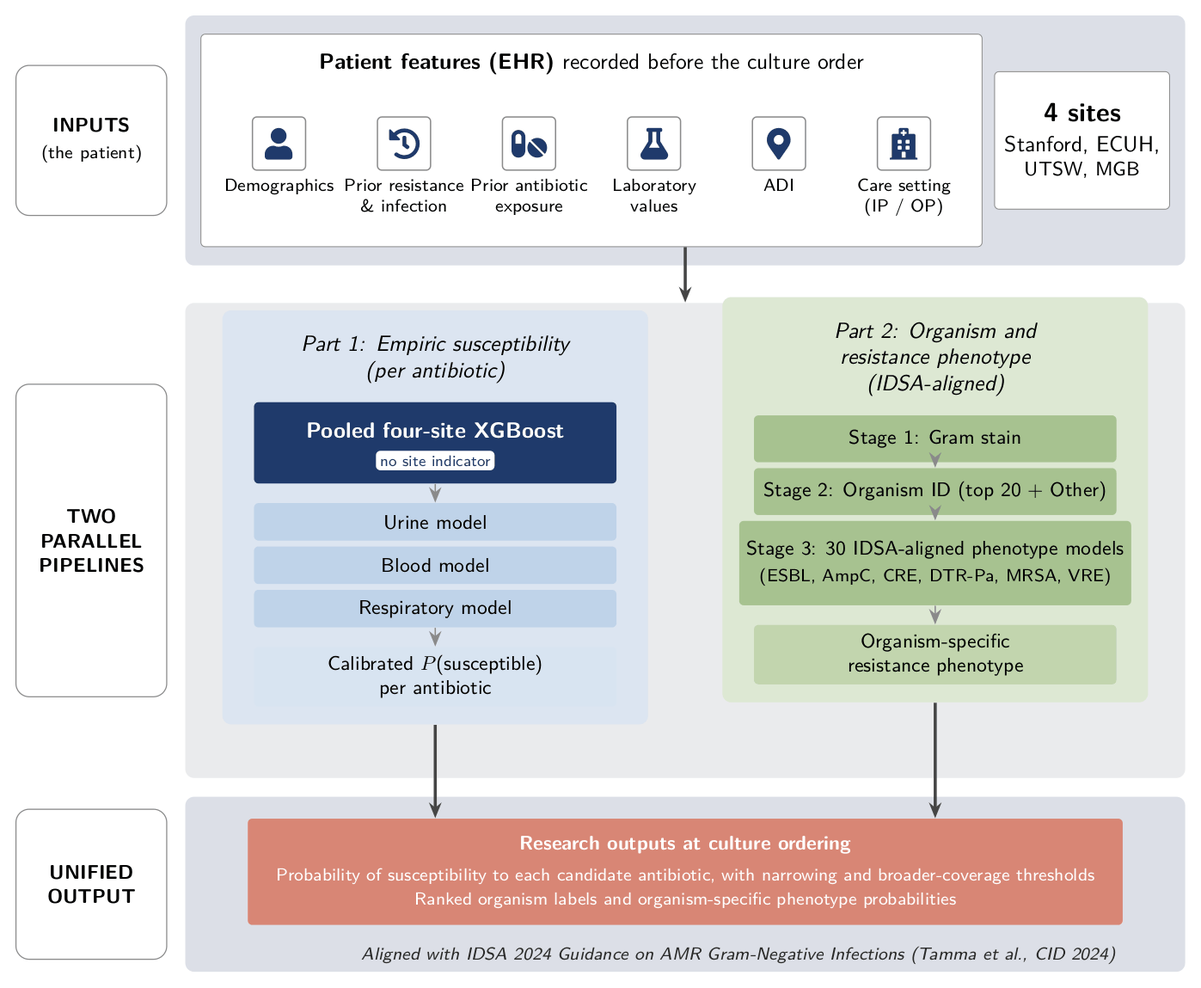
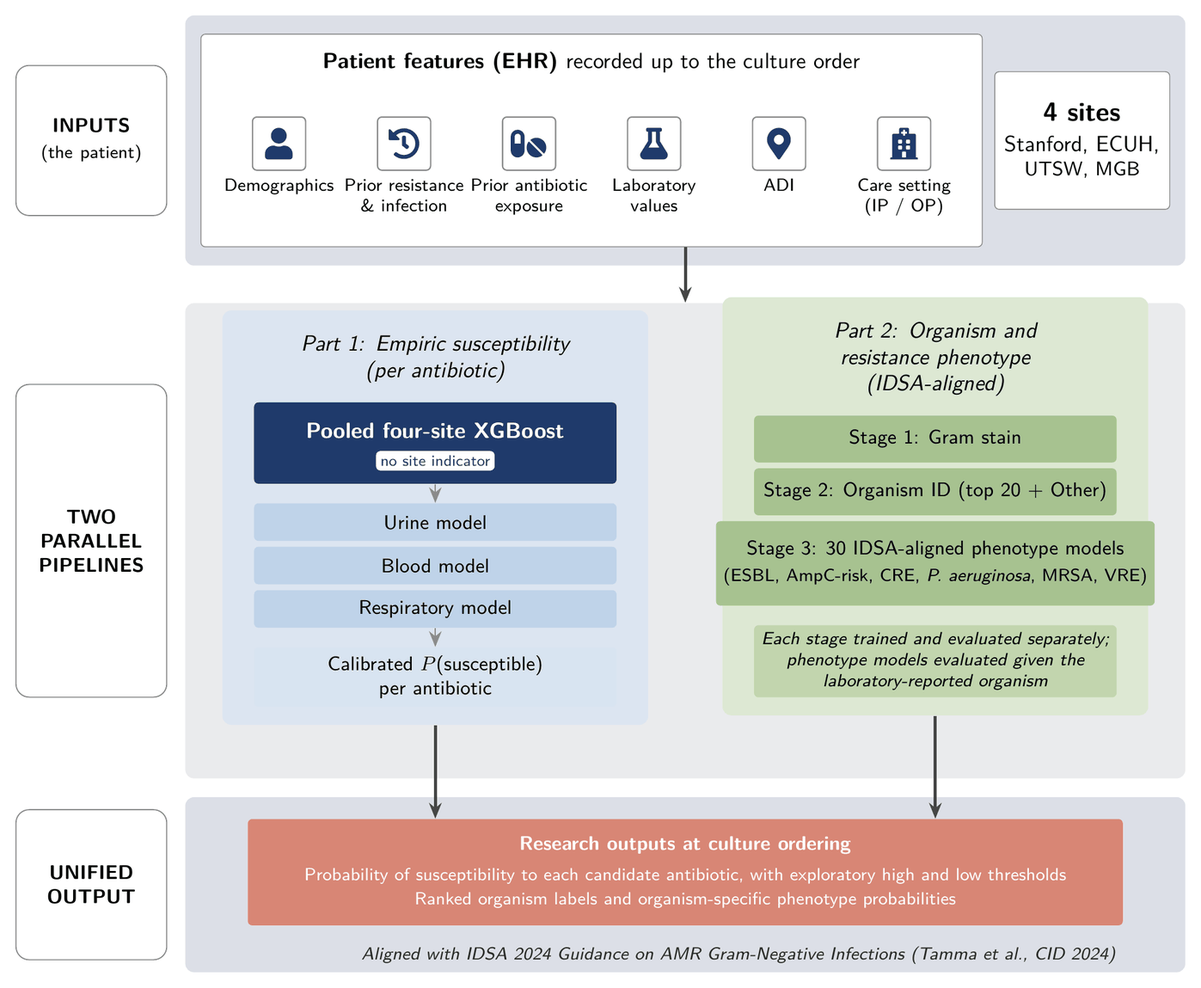
Website and README: match the submitted manuscript; remove arXiv paper links
- Remove the Paper/arXiv buttons and links (nav, hero, footer, README badge);
  citation is now an unpublished manuscript, not an arXiv preprint.
- Title in title case; affiliations and author numbering as submitted.
- New Fig. 2 (stages trained and evaluated separately, AmpC-risk,
  P. aeruginosa agent-specific, high and low thresholds) and Fig. 4
  (susceptible identified / resistant flagged).
- Wording synced with the submitted text: five short-form blocks, site-aware
  comparison at MGB only, same-day exclusion exceptions, all tested organisms,
  app's E. coli-based local adjustment differs from the evaluated correction.

diff --git a/docs/index.html b/docs/index.html
@@ -4,7 +4,7 @@
 <meta charset="utf-8">
 <meta name="viewport" content="width=device-width, initial-scale=1">
 <title>ARMD-Predict</title>
-<meta name="description" content="ARMD-Predict estimates, at culture ordering, the probability that an organism recovered from the culture will be susceptible to each candidate antibiotic: a patient-specific antibiogram trained on four U.S. health systems. Research prototype, not for clinical decision-making.">
+<meta name="description" content="ARMD-Predict estimates, at culture ordering, the probability that all tested organisms recovered from the culture will be susceptible to each candidate antibiotic: a patient-specific antibiogram trained on four U.S. health systems. Research prototype, not for clinical decision-making.">
 <meta name="color-scheme" content="light">
 <meta name="theme-color" content="#FFFFFF">
 <link rel="canonical" href="https://healthrex.github.io/ARMD-Predict/">
@@ -414,8 +414,6 @@ footer nav a:hover { color: var(--teal-strong); }
       <li><a href="#citation">Cite</a></li>
     </ul>
     <div class="nav-cta">
-      <!-- TODO: replace XXXX.XXXXX with the arXiv identifier once the preprint is posted -->
-      <a class="btn hide-sm" href="https://arxiv.org/abs/XXXX.XXXXX">Paper</a>
       <a class="btn" href="https://github.com/HealthRex/ARMD-Predict">GitHub</a>
     </div>
   </div>
@@ -424,8 +422,8 @@ footer nav a:hover { color: var(--teal-strong); }
 <header class="hero" id="top">
   <div class="wrap hero-grid">
     <div class="hero-copy">
-      <p class="eyebrow">Preprint 2026 · Research prototype</p>
-      <h1><span class="name">ARMD-Predict</span>: <span class="nw">multi-site</span> machine learning to <em>predict antibiotic resistance before culture results</em></h1>
+      <p class="eyebrow">Research prototype · 2026</p>
+      <h1><span class="name">ARMD-Predict</span>: <span class="nw">Multi-Site</span> Machine Learning to <em>Predict Antibiotic Resistance before Culture Results</em></h1>
 
       <p class="authors">
         Fateme Nateghi Haredasht<sup>1,*,†</sup>, Nicholas P. Marshall<sup>1,*</sup>, Wenyuan Chen<sup>1</sup>, Lauren N. Cooper<sup>2</sup>, Ziming Wei<sup>3</sup>, Harrison Konsker<sup>1</sup>, Jacob S. Chen<sup>1</sup>, Michael Klompas<sup>3,4</sup>, Cara McKenna<sup>3,4</sup>, Richard J. Medford<sup>2,5</sup>, Sanjat Kanjilal<sup>3</sup>, Austin J. Schoeffler<sup>1</sup>, Stephen P. Ma<sup>1</sup>, Niaz Banaei<sup>1</sup>, Steven M. Asch<sup>1</sup>, Amy Chang<sup>1</sup>, Stanley C. Deresinski<sup>1</sup>, Mary K. Goldstein<sup>1</sup>, Robert Tibshirani<sup>1</sup>, Jonathan H. Chen<sup>1</sup>
@@ -436,11 +434,7 @@ footer nav a:hover { color: var(--teal-strong); }
       <p class="notes"><sup>*</sup>Contributed equally. <sup>†</sup>Corresponding author.</p>
 
       <div class="hero-actions">
-        <a class="btn btn-primary" href="https://arxiv.org/abs/XXXX.XXXXX">
-          <svg viewBox="0 0 24 24" fill="none" stroke="currentColor" stroke-width="2" stroke-linecap="round" stroke-linejoin="round" aria-hidden="true"><path d="M14 3H7a2 2 0 0 0-2 2v14a2 2 0 0 0 2 2h10a2 2 0 0 0 2-2V8z"/><path d="M14 3v5h5M9 13h6M9 17h6"/></svg>
-          Paper <span class="tag">arXiv</span>
-        </a>
-        <a class="btn" href="https://github.com/HealthRex/ARMD-Predict">
+        <a class="btn btn-primary" href="https://github.com/HealthRex/ARMD-Predict">
           <svg viewBox="0 0 24 24" fill="none" stroke="currentColor" stroke-width="2" stroke-linecap="round" stroke-linejoin="round" aria-hidden="true"><path d="m16 18 6-6-6-6M8 6l-6 6 6 6"/></svg>
           Code
         </a>
@@ -540,8 +534,8 @@ footer nav a:hover { color: var(--teal-strong); }
       <h2>A patient-specific antibiogram, <em>at the moment a culture is ordered</em></h2>
     </div>
     <div class="prose">
-      <p>Clinicians often choose empiric antibiotics 24 to 72 hours before culture and susceptibility results are available. During that interval they rely on the hospital antibiogram: the share of recovered isolates that were susceptible to each antibiotic, reported once for all patients.</p>
-      <p><strong>ARMD-Predict estimates the same quantity for one patient.</strong> From information recorded before the order, it estimates the probability that an organism recovered from the culture will be susceptible to each candidate antibiotic. The models were trained on 7.4 million culture–antibiotic results from 415,952 culture orders in 241,227 patients at Stanford Health Care, East Carolina University Health (ECUH), UT Southwestern Medical Center (UTSW) and Mass General Brigham (MGB). A secondary hierarchical model predicts the organism and resistance phenotypes aligned with the 2024 IDSA guidance.</p>
+      <p>Organism identification and susceptibility testing can take several days, so clinicians often choose empiric antibiotics before results are available. During that interval they rely on the hospital antibiogram: the share of recovered isolates that were susceptible to each antibiotic, reported once for all patients.</p>
+      <p><strong>ARMD-Predict estimates the same quantity for one patient.</strong> From information recorded up to the culture order, it estimates the probability that all tested organisms recovered from the culture will be susceptible to each candidate antibiotic. The models were trained on 7.4 million culture–antibiotic results from 415,952 culture orders in 241,227 patients at Stanford Health Care, East Carolina University Health (ECUH), UT Southwestern Medical Center (UTSW) and Mass General Brigham (MGB). Separately trained and evaluated models predict the likely organism and organism-specific resistance phenotypes, including proxies for categories in the 2024 IDSA guidance.</p>
     </div>
 
     <div class="compare">
@@ -571,7 +565,7 @@ footer nav a:hover { color: var(--teal-strong); }
     <div class="section-head">
       <p class="eyebrow">How it works</p>
       <h2>Two components built on one set of <em><span class="nw">pre-order</span> features</em></h2>
-      <p>Both components use only information recorded before the culture order: demographics, care setting, prior resistance and infection, prior antibiotic exposure, prior procedures, comorbidities, laboratory values and the Area Deprivation Index.</p>
+      <p>Both components use information recorded up to the culture order: demographics, care setting, prior resistance and infection, prior antibiotic exposure, prior procedures, comorbidities, laboratory values and the Area Deprivation Index.</p>
     </div>
 
     <div class="grid-2">
@@ -581,27 +575,27 @@ footer nav a:hover { color: var(--teal-strong); }
         <p>One XGBoost model per antibiotic, specimen and care setting returns the probability that the organisms recovered from the order are susceptible to that antibiotic.</p>
         <ul>
           <li>23 pooled four-site models: 7 inpatient urine, 7 outpatient urine, 7 inpatient blood and 2 respiratory.</li>
-          <li>Released models omit site identity; a site-agnostic pooled model performed nearly identically to a site-aware one.</li>
-          <li>The public web app uses a short form restricted to six feature blocks a clinician can report at ordering.</li>
+          <li>Released models omit site identity. At MGB, the only hospital in this comparison, a site-agnostic pooled model performed nearly identically to a site-aware one.</li>
+          <li>The public web app uses a short form restricted to five feature blocks a clinician can report at ordering: demographics, care setting, prior resistance, prior infection and prior antibiotic exposure.</li>
         </ul>
       </article>
       <article class="card comp comp-p">
         <span class="num">COMPONENT 2</span>
         <h3>Organism and resistance phenotype</h3>
-        <p>A three-stage hierarchy decomposes the pre-culture question into Gram class, organism identity and organism-specific resistance.</p>
+        <p>Three stages address Gram class, organism identity and organism-specific resistance. Each stage was trained and evaluated separately, not as an end-to-end cascade.</p>
         <ul>
           <li>Gram stain: pooled held-out AUROC 0.72.</li>
           <li>Organism identification: the 20 most frequent organisms per specimen and setting, plus Other.</li>
-          <li>30 phenotype models aligned with the 2024 IDSA guidance (ESBL, AmpC, CRE and difficult-to-treat <i>P. aeruginosa</i> proxies), with MRSA and VRE as Gram-positive complements. AUROC ranged from 0.519 to 0.834, evaluated given the observed organism.</li>
+          <li>30 phenotype models aligned with the 2024 IDSA guidance: proxies for ESBL production and CRE, measured resistance in organisms at moderate risk of AmpC production, and non-susceptibility of <i>P. aeruginosa</i> to individual agents, with MRSA and VRE as Gram-positive complements. AUROC ranged from 0.519 to 0.834, evaluated given the laboratory-reported organism. Phenotype models are not shown in the public web app.</li>
         </ul>
       </article>
     </div>
 
     <div class="sub">
       <figure class="fig fig-narrow">
-        <a href="assets/framework.png" title="Open the full-size figure"><img src="assets/framework.png" width="1397" height="1149" loading="lazy" alt="ARMD-Predict framework diagram. Inputs: patient features recorded before the culture order (demographics, prior resistance and infection, prior antibiotic exposure, laboratory values, Area Deprivation Index and care setting) from four sites: Stanford, ECUH, UTSW and MGB. Two parallel pipelines. Part 1, empiric susceptibility per antibiotic: a pooled four-site XGBoost with no site indicator, with urine, blood and respiratory models, giving a calibrated probability of susceptibility per antibiotic. Part 2, organism and resistance phenotype, IDSA-aligned: stage 1 Gram stain, stage 2 organism identification (top 20 plus Other), stage 3 thirty IDSA-aligned phenotype models (ESBL, AmpC, CRE, DTR-Pa, MRSA, VRE), giving organism-specific resistance phenotypes. Unified output: research outputs at culture ordering."></a>
+        <a href="assets/framework.png" title="Open the full-size figure"><img src="assets/framework.png" width="1397" height="1149" loading="lazy" alt="ARMD-Predict framework diagram. Inputs: patient features recorded up to the culture order (demographics, prior resistance and infection, prior antibiotic exposure, laboratory values, Area Deprivation Index and care setting) from four sites: Stanford, ECUH, UTSW and MGB. Two parallel pipelines. Part 1, empiric susceptibility per antibiotic: a pooled four-site XGBoost with no site indicator, with urine, blood and respiratory models, giving a calibrated probability of susceptibility per antibiotic. Part 2, organism and resistance phenotype, IDSA-aligned: stage 1 Gram stain, stage 2 organism identification (top 20 plus Other), stage 3 thirty IDSA-aligned phenotype models (ESBL, AmpC-risk, CRE, P. aeruginosa, MRSA, VRE); each stage was trained and evaluated separately, and phenotype models were evaluated given the laboratory-reported organism. Unified output: research outputs at culture ordering, the probability of susceptibility to each candidate antibiotic with exploratory high and low thresholds, and ranked organism labels with organism-specific phenotype probabilities."></a>
       </figure>
-      <figcaption><strong>The ARMD-Predict framework.</strong> A shared set of EHR features recorded before the culture order feeds two research pipelines. Phenotypic proxies align, where applicable, with the 2024 IDSA guidance on antimicrobial-resistant Gram-negative infections.</figcaption>
+      <figcaption><strong>The ARMD-Predict framework.</strong> A shared set of EHR features recorded up to the culture order feeds two research pipelines, each trained and evaluated separately. Phenotypic proxies align, where applicable, with the 2024 IDSA guidance on antimicrobial-resistant Gram-negative infections.</figcaption>
     </div>
 
     <div class="sub">
@@ -612,8 +606,8 @@ footer nav a:hover { color: var(--teal-strong); }
           <p>Monotonic constraints apply to prior resistance, prior infection and overall prior antibiotic exposure. A patient with an earlier resistant culture is never scored as less likely to be resistant than an otherwise identical patient without one.</p>
         </div>
         <div class="principle">
-          <h4>Only what was known before the order</h4>
-          <p>History records dated the same day as the culture were excluded at every site, because whole-day dates cannot show that the event came before the order.</p>
+          <h4>No same-day history</h4>
+          <p>History records dated the same day as the culture were excluded at every site, because whole-day dates cannot show that the event came before the order. Two exceptions: nursing-home contact, whose records mostly carry the culture day, and laboratory summaries, which cover the 14 days up to and including the day of the order.</p>
         </div>
         <div class="principle">
           <h4>No patient in two partitions</h4>
@@ -791,11 +785,11 @@ footer nav a:hover { color: var(--teal-strong); }
     <!-- operating points -->
     <div class="sub">
       <h3>Exploratory operating points</h3>
-      <p class="lede">Two thresholds link a probability to a prescribing question. A high threshold identifies orders for narrowing when at least 95% of them are susceptible; a low threshold flags resistant orders for broader coverage while flagging no more than 20% of susceptible ones. For ceftriaxone in inpatient urine cultures, 54.9% of susceptible orders were identified for narrowing and 60.1% of resistant orders were flagged for broader coverage.</p>
+      <p class="lede">Two exploratory thresholds link a probability to a prescribing question. A high threshold identifies susceptible cultures, requiring that at least 95% of the cultures above it are susceptible (positive predictive value of at least 95%); a low threshold flags resistant cultures while flagging no more than 20% of susceptible ones. For ceftriaxone in inpatient urine cultures, 54.9% of susceptible orders were identified at the high threshold and 60.1% of resistant orders were flagged at the low threshold.</p>
       <figure class="fig fig-narrow">
-        <a href="assets/operating-points.png" title="Open the full-size figure"><img src="assets/operating-points.png" width="1260" height="1066" loading="lazy" alt="Bar charts of exploratory operating points for urine inpatient, urine outpatient, blood inpatient and respiratory inpatient models. Orange bars give the percentage of susceptible test orders identified for narrowing; green bars give the percentage of resistant test orders flagged for broader coverage. For example, urine inpatient ceftriaxone: 55 and 60; blood inpatient ceftriaxone: 11 and 46."></a>
+        <a href="assets/operating-points.png" title="Open the full-size figure"><img src="assets/operating-points.png" width="1260" height="1022" loading="lazy" alt="Bar charts of exploratory operating points for urine inpatient, urine outpatient, blood inpatient and respiratory inpatient models. Orange bars give the percentage of susceptible test cultures identified at the high threshold (positive predictive value of at least 95%); green bars give the percentage of resistant test cultures flagged at the low threshold (no more than 20% of susceptible cultures flagged). For example, urine inpatient ceftriaxone: 55 and 60; blood inpatient ceftriaxone: 11 and 46."></a>
       </figure>
-      <figcaption><strong>Narrowing and broader-coverage yields.</strong> Both thresholds were feasible for 17 of 23 models. Thresholds and yields were derived and evaluated on the same test orders, so they are candidate operating points for validation, not tested clinical rules.</figcaption>
+      <figcaption><strong>Exploratory operating points for identifying susceptible and flagging resistant cultures.</strong> Both thresholds were feasible for 17 of 23 models. The two thresholds were selected independently and do not form a single policy; in 9 of the 17 models the low threshold lay above the high threshold. Thresholds and yields were derived and evaluated on the same test orders, so they are candidate operating points for validation, not tested clinical rules.</figcaption>
     </div>
 
     <!-- sites -->
@@ -842,7 +836,7 @@ footer nav a:hover { color: var(--teal-strong); }
       <div class="facts">
         <div class="fact"><b>Controlled prevalence sweep.</b> At a 40% local resistance rate, median expected calibration error fell from 0.20 to 0.06 after re-anchoring, without changing discrimination.</div>
         <div class="fact"><b>Leave-one-site-out.</b> Among site–model cells whose prevalence differed from training by at least 3 percentage points, re-anchoring reduced calibration error in 4 of 5 (mean, 0.061 to 0.037).</div>
-        <div class="fact"><b>Caveat.</b> The retrospective analysis used each held-out site's observed prevalence, which is stronger information than a hospital would usually have in advance. The web app offers this adjustment as an experimental feature.</div>
+        <div class="fact"><b>Caveat.</b> The retrospective analysis used each held-out site's observed prevalence, which is stronger information than a hospital would usually have in advance. The web app's experimental local adjustment is a different, simpler method: it shifts each estimate by the difference between the local and training <i>E. coli</i> resistance rates, weighted by the share of that culture group's organisms that are <i>E. coli</i>. It has not itself been evaluated.</div>
       </div>
     </div>
   </div>
@@ -857,14 +851,12 @@ footer nav a:hover { color: var(--teal-strong); }
     </div>
     <div class="cite">
       <button class="copy" type="button" data-copy="bibtex">Copy BibTeX</button>
-<pre id="bibtex">@article{nateghiharedasht2026armdpredict,
-  title         = {{ARMD-Predict}: multi-site machine learning to predict antibiotic resistance before culture results},
-  author        = {Nateghi Haredasht, Fateme and Marshall, Nicholas P. and Chen, Wenyuan and Cooper, Lauren N. and Wei, Ziming and Konsker, Harrison and Chen, Jacob S. and Klompas, Michael and McKenna, Cara and Medford, Richard J. and Kanjilal, Sanjat and Schoeffler, Austin J. and Ma, Stephen P. and Banaei, Niaz and Asch, Steven M. and Chang, Amy and Deresinski, Stanley C. and Goldstein, Mary K. and Tibshirani, Robert and Chen, Jonathan H.},
-  journal       = {arXiv preprint arXiv:XXXX.XXXXX},
-  year          = {2026},
-  eprint        = {XXXX.XXXXX},
-  archivePrefix = {arXiv},
-  url           = {https://arxiv.org/abs/XXXX.XXXXX}
+<pre id="bibtex">@unpublished{nateghiharedasht2026armdpredict,
+  title  = {{ARMD-Predict}: Multi-Site Machine Learning to Predict Antibiotic Resistance before Culture Results},
+  author = {Nateghi Haredasht, Fateme and Marshall, Nicholas P. and Chen, Wenyuan and Cooper, Lauren N. and Wei, Ziming and Konsker, Harrison and Chen, Jacob S. and Klompas, Michael and McKenna, Cara and Medford, Richard J. and Kanjilal, Sanjat and Schoeffler, Austin J. and Ma, Stephen P. and Banaei, Niaz and Asch, Steven M. and Chang, Amy and Deresinski, Stanley C. and Goldstein, Mary K. and Tibshirani, Robert and Chen, Jonathan H.},
+  year   = {2026},
+  note   = {Manuscript submitted for publication},
+  url    = {https://healthrex.github.io/ARMD-Predict/}
 }</pre>
     </div>
     <p class="cite-note">Fateme Nateghi Haredasht and Nicholas P. Marshall contributed equally. If you use the datasets, please also cite the ARMD releases listed under <a href="#data">Data</a>.</p>
@@ -924,7 +916,8 @@ footer nav a:hover { color: var(--teal-strong); }
       <summary>Full affiliations</summary>
       <ol>
         <li>Division of Computational Medicine, Stanford University, Stanford, CA, USA</li>
-        <li>Division of Pediatric Infectious Diseases, Department of Pediatrics, Stanford University School of Medicine, Palo Alto, CA, USA</li>
+        <li>Division of Infectious Diseases, Department of Pediatrics, Stanford University School of Medicine, Palo Alto, CA, USA</li>
+        <li>Division of Clinical Informatics, Department of Pediatrics, Stanford University School of Medicine, Palo Alto, CA, USA</li>
         <li>Clinical Informatics Center, University of Texas Southwestern Medical Center, Dallas, TX, USA</li>
         <li>Department of Population Medicine, Harvard Medical School and Harvard Pilgrim Health Care Institute, Boston, MA, USA</li>
         <li>Division of Infectious Diseases, Department of Medicine, Brigham and Women's Hospital, Boston, MA, USA</li>
@@ -938,7 +931,7 @@ footer nav a:hover { color: var(--teal-strong); }
         <li>Department of Biomedical Data Science and Department of Statistics, Stanford University, Stanford, CA, USA</li>
         <li>Clinical Excellence Research Center, Stanford University School of Medicine, Stanford, CA, USA</li>
       </ol>
-      <p style="margin-top:10px">Author numbering in the paper: Nateghi Haredasht 1; Marshall 2; W. Chen 1; Cooper 3; Wei 4; Konsker 1; J. S. Chen 1; Klompas 4, 5; McKenna 4, 5; Medford 3, 6; Kanjilal 4; Schoeffler 7; Ma 8; Banaei 9, 10; Asch 11; Chang 9; Deresinski 9; Goldstein 12; Tibshirani 13; J. H. Chen 1, 8, 14.</p>
+      <p style="margin-top:10px">Author numbering in the paper: Nateghi Haredasht 1; Marshall 2, 3; W. Chen 1; Cooper 4; Wei 5; Konsker 1; J. S. Chen 1; Klompas 5, 6; McKenna 5, 6; Medford 4, 7; Kanjilal 5; Schoeffler 8; Ma 9; Banaei 10, 11; Asch 12; Chang 10; Deresinski 10; Goldstein 13; Tibshirani 14; J. H. Chen 1, 9, 15.</p>
     </details>
   </div>
 </section>
@@ -948,13 +941,12 @@ footer nav a:hover { color: var(--teal-strong); }
   <div class="wrap">
     <a class="brand" href="#top"><img src="assets/logo.svg" alt="" width="40" height="25"><span>ARMD-Predict</span></a>
     <nav aria-label="Footer">
-      <a href="https://arxiv.org/abs/XXXX.XXXXX">Paper</a>
       <a href="https://github.com/HealthRex/ARMD-Predict">Code</a>
       <a href="https://armd-predict.stanford.edu">Web app</a>
       <a href="#data">Data</a>
       <a href="#citation">Cite</a>
     </nav>
-    <p style="margin:0;flex-basis:100%">Research prototype. Not for clinical decision-making. Figures and numbers on this page are from the ARMD-Predict paper (2026).</p>
+    <p style="margin:0;flex-basis:100%">Research prototype. Not for clinical decision-making. Figures and numbers on this page are from the ARMD-Predict manuscript (2026).</p>
   </div>
 </footer>
 

diff --git a/README.md b/README.md
@@ -2,12 +2,10 @@
   <img src="assets/armd-predict-logo.svg" alt="ARMD-Predict logo: a teal culture plate with three antibiotic discs, circled by a purple orbit" width="200">
 </p>
 
-<h1 align="center">ARMD-Predict: multi-site machine learning to predict antibiotic resistance before culture results</h1>
+<h1 align="center">ARMD-Predict: Multi-Site Machine Learning to Predict Antibiotic Resistance before Culture Results</h1>
 
 <p align="center">
   <a href="https://healthrex.github.io/ARMD-Predict/"><img src="https://img.shields.io/badge/Website-000000?style=for-the-badge&logo=googlechrome&logoColor=white&color=082A5E" alt="Website"></a>
-  <!-- TODO: replace XXXX.XXXXX with the arXiv identifier once the preprint is posted -->
-  <a href="https://arxiv.org/abs/XXXX.XXXXX"><img src="https://img.shields.io/badge/Paper-000000?style=for-the-badge&logo=arxiv&logoColor=white&color=B31B1B" alt="Paper (arXiv)"></a>
   <a href="https://armd-predict.stanford.edu"><img src="https://img.shields.io/badge/Web%20app-000000?style=for-the-badge&logo=googlechrome&logoColor=white&color=0E7F81" alt="Web app"></a>
   <a href="#data"><img src="https://img.shields.io/badge/Data-000000?style=for-the-badge&logo=openaccess&logoColor=white&color=7457E8" alt="Data"></a>
   <!-- TODO: confirm the license before release -->
@@ -18,13 +16,13 @@
 
 ## Overview
 
-Clinicians choose empiric antibiotics before culture results are available, guided by hospital antibiograms that give every patient the same estimate. ARMD-Predict estimates, at the time a culture is ordered and from information recorded before the order, the probability that an organism recovered from that culture will be susceptible to each candidate antibiotic: a patient-specific antibiogram. The models were trained on 7.4 million culture–antibiotic results from 415,952 culture orders in 241,227 patients at four U.S. health systems: Stanford Health Care, East Carolina University Health (ECUH), UT Southwestern Medical Center (UTSW) and Mass General Brigham (MGB). Monotonic constraints prevent prior resistance from lowering predicted resistance, and a prior-probability correction re-anchors predictions to a hospital's own antibiogram without retraining. A secondary hierarchical model predicts the organism and resistance phenotypes aligned with the 2024 IDSA guidance.
+Clinicians choose empiric antibiotics before culture results are available, guided by hospital antibiograms that give every patient the same estimate. ARMD-Predict estimates, at the time a culture is ordered and from information recorded up to the order, the probability that all tested organisms recovered from that culture will be susceptible to each candidate antibiotic: a patient-specific antibiogram. The models were trained on 7.4 million culture–antibiotic results from 415,952 culture orders in 241,227 patients at four U.S. health systems: Stanford Health Care, East Carolina University Health (ECUH), UT Southwestern Medical Center (UTSW) and Mass General Brigham (MGB). Monotonic constraints prevent prior resistance from lowering predicted resistance, and a prior-probability correction re-anchors predictions to a hospital's own antibiogram without retraining. Separately trained and evaluated models predict the likely organism and organism-specific resistance phenotypes, including proxies for categories in the 2024 IDSA guidance.
 
 <p align="center">
-  <a href="assets/framework.png"><img src="assets/framework.png" alt="ARMD-Predict framework. Patient features recorded before the culture order (demographics, prior resistance and infection, prior antibiotic exposure, laboratory values, Area Deprivation Index and care setting) from four sites feed two parallel pipelines. Part 1, empiric susceptibility: pooled four-site XGBoost models with no site indicator, for urine, blood and respiratory cultures, giving a calibrated probability of susceptibility per antibiotic. Part 2, organism and resistance phenotype: Gram stain, then organism identification (top 20 plus Other), then 30 IDSA-aligned phenotype models. Both produce research outputs at culture ordering." width="760"></a>
+  <a href="assets/framework.png"><img src="assets/framework.png" alt="ARMD-Predict framework diagram. Inputs: patient features recorded up to the culture order (demographics, prior resistance and infection, prior antibiotic exposure, laboratory values, Area Deprivation Index and care setting) from four sites: Stanford, ECUH, UTSW and MGB. Two parallel pipelines. Part 1, empiric susceptibility per antibiotic: a pooled four-site XGBoost with no site indicator, with urine, blood and respiratory models, giving a calibrated probability of susceptibility per antibiotic. Part 2, organism and resistance phenotype, IDSA-aligned: stage 1 Gram stain, stage 2 organism identification (top 20 plus Other), stage 3 thirty IDSA-aligned phenotype models (ESBL, AmpC-risk, CRE, P. aeruginosa, MRSA, VRE); each stage was trained and evaluated separately, and phenotype models were evaluated given the laboratory-reported organism. Unified output: research outputs at culture ordering, the probability of susceptibility to each candidate antibiotic with exploratory high and low thresholds, and ranked organism labels with organism-specific phenotype probabilities." width="760"></a>
 </p>
 
-*The ARMD-Predict framework. A shared set of features recorded before the culture order feeds two research pipelines: empiric susceptibility per antibiotic (Part 1) and organism and resistance-phenotype prediction (Part 2).*
+*The ARMD-Predict framework. A shared set of features recorded up to the culture order feeds two research pipelines: empiric susceptibility per antibiotic (Part 1) and organism and resistance-phenotype prediction (Part 2). Each stage was trained and evaluated separately.*
 
 ## Main Results
 
@@ -77,8 +75,8 @@ ARMD-Predict is a **research prototype**. It is intended for research and for in
 - The models were developed and evaluated retrospectively. They have not been prospectively validated, integrated into an electronic health record or shown to change prescribing or patient outcomes.
 - The pooled models used a random patient-grouped split from the same period, so the results do not estimate performance in future years. In an earlier analysis with a simpler feature set, chronological splitting reduced AUROC by approximately 0.04.
 - All four health systems are U.S. academic medical centers. Performance in community hospitals and in other countries is unknown.
-- Reported calibration across the pooled models is optimistic: the choice between a calibration transform and the raw output was made on test-set calibration error, which was then reported. The narrowing and broader-coverage operating points were derived and evaluated on the same test orders.
-- The organism-specific phenotype models were evaluated given the observed organism, not as an end-to-end pipeline from predicted organism to phenotype.
+- Reported calibration across the pooled models is optimistic: the choice between a calibration transform and the raw output was made on test-set calibration error, which was then reported. The exploratory high and low operating points were derived and evaluated on the same test orders.
+- The organism-specific phenotype models were evaluated given the laboratory-reported organism, not as an end-to-end pipeline from predicted organism to phenotype.
 - Intermediate results were grouped with resistant. Race and ethnicity were unavailable, and sex labels were inferred at three sites.
 - The local-prevalence adjustment assumes that only the overall resistance rate differs between hospitals; its retrospective evaluation used each held-out site's observed prevalence.
 
@@ -87,14 +85,12 @@ ARMD-Predict is a **research prototype**. It is intended for research and for in
 If you use ARMD-Predict, please cite:
 
 ```bibtex
-@article{nateghiharedasht2026armdpredict,
-  title         = {{ARMD-Predict}: multi-site machine learning to predict antibiotic resistance before culture results},
-  author        = {Nateghi Haredasht, Fateme and Marshall, Nicholas P. and Chen, Wenyuan and Cooper, Lauren N. and Wei, Ziming and Konsker, Harrison and Chen, Jacob S. and Klompas, Michael and McKenna, Cara and Medford, Richard J. and Kanjilal, Sanjat and Schoeffler, Austin J. and Ma, Stephen P. and Banaei, Niaz and Asch, Steven M. and Chang, Amy and Deresinski, Stanley C. and Goldstein, Mary K. and Tibshirani, Robert and Chen, Jonathan H.},
-  journal       = {arXiv preprint arXiv:XXXX.XXXXX},
-  year          = {2026},
-  eprint        = {XXXX.XXXXX},
-  archivePrefix = {arXiv},
-  url           = {https://arxiv.org/abs/XXXX.XXXXX}
+@unpublished{nateghiharedasht2026armdpredict,
+  title  = {{ARMD-Predict}: Multi-Site Machine Learning to Predict Antibiotic Resistance before Culture Results},
+  author = {Nateghi Haredasht, Fateme and Marshall, Nicholas P. and Chen, Wenyuan and Cooper, Lauren N. and Wei, Ziming and Konsker, Harrison and Chen, Jacob S. and Klompas, Michael and McKenna, Cara and Medford, Richard J. and Kanjilal, Sanjat and Schoeffler, Austin J. and Ma, Stephen P. and Banaei, Niaz and Asch, Steven M. and Chang, Amy and Deresinski, Stanley C. and Goldstein, Mary K. and Tibshirani, Robert and Chen, Jonathan H.},
+  year   = {2026},
+  note   = {Manuscript submitted for publication},
+  url    = {https://healthrex.github.io/ARMD-Predict/}
 }
 ```
 
